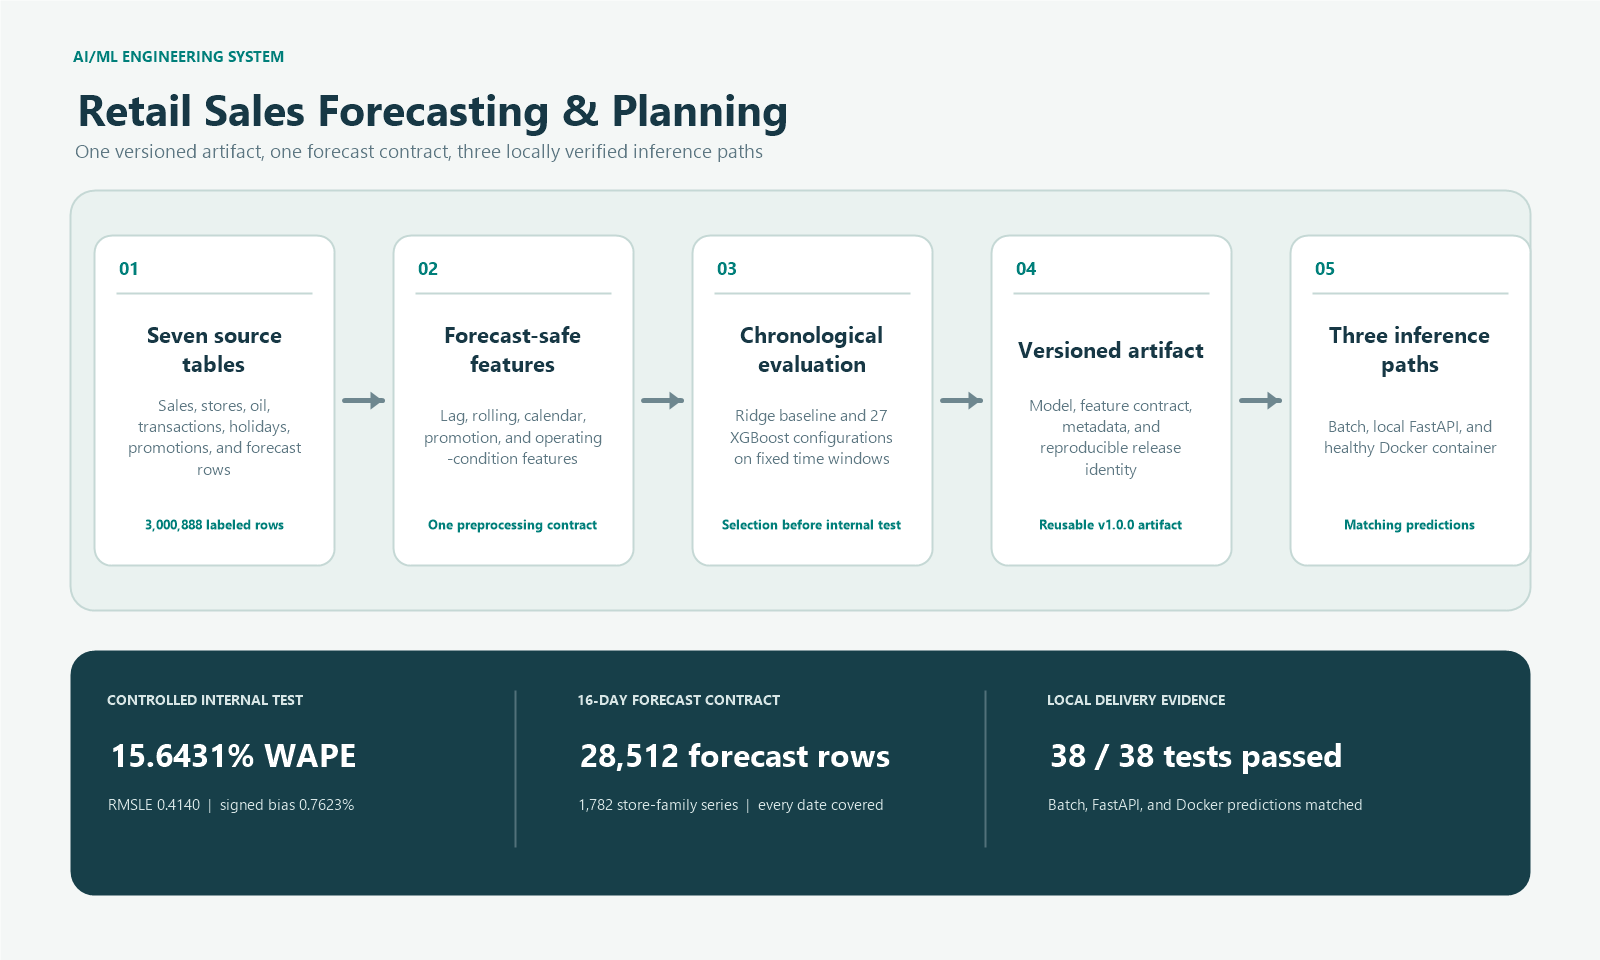
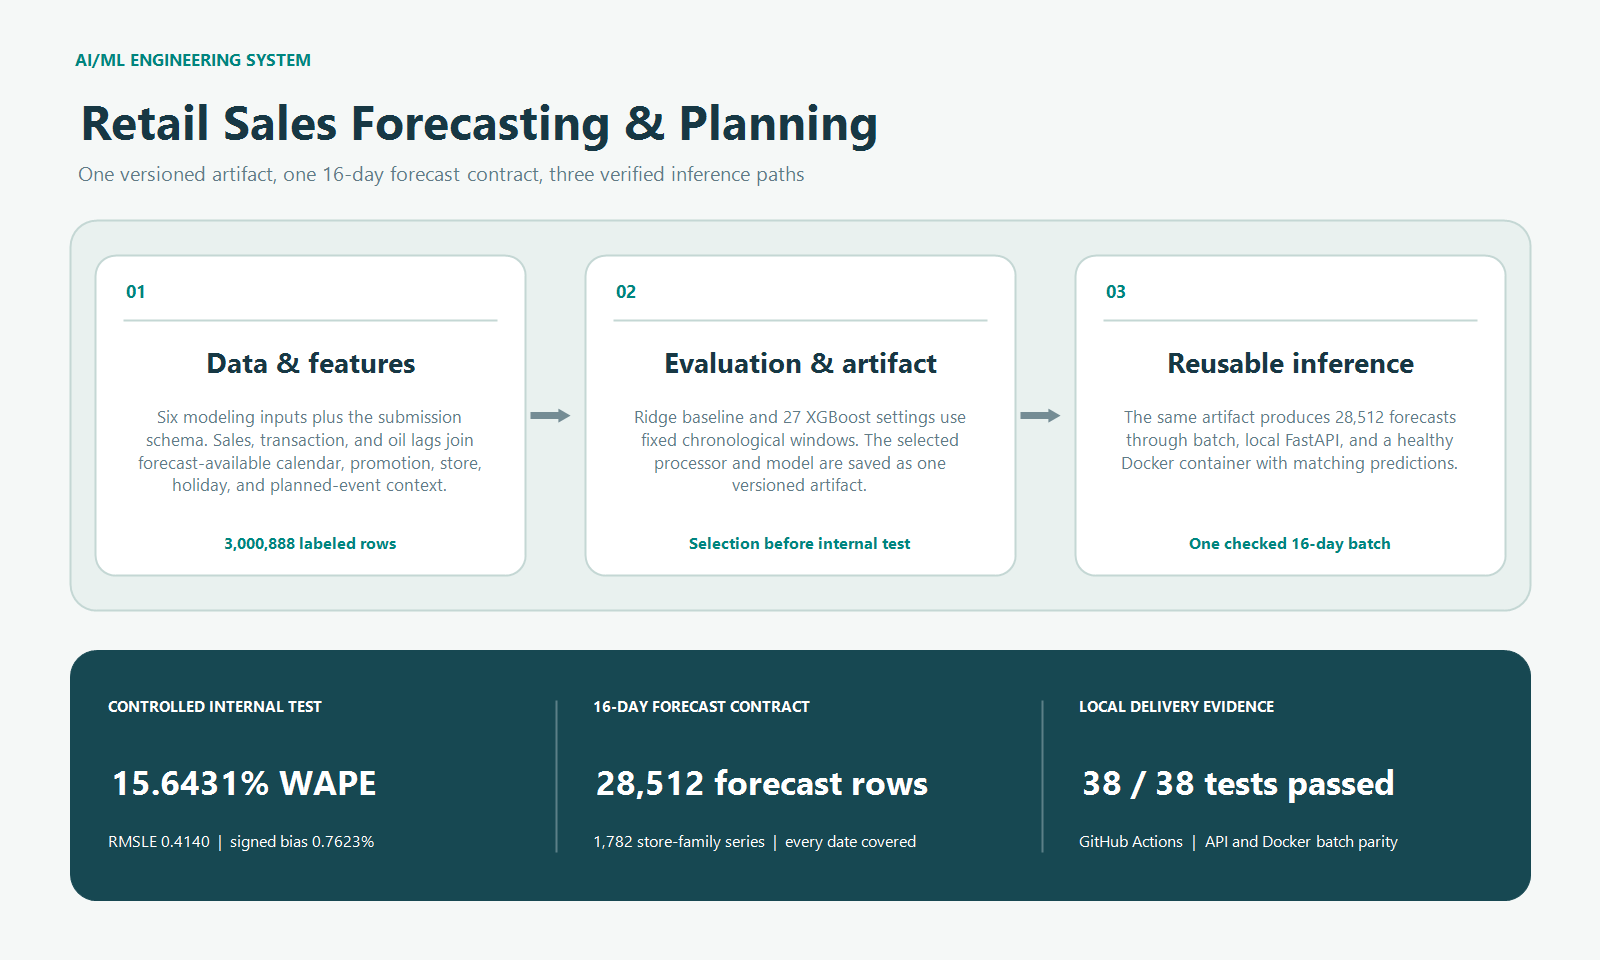
Audit retail project presentation

diff --git a/index.html b/index.html
@@ -225,7 +225,7 @@
                 <h3>Retail Sales Forecasting &amp; Planning System</h3>
                 <dl class="case-details">
                   <div><dt>Problem</dt><dd>Retail planning requires a consistent 16-day view of category demand across 54 stores and 33 product families, while promotions, holidays, transactions, and local operating conditions vary across 1,782 store-family series.</dd></div>
-                  <div><dt>My Contribution</dt><dd>Built the end-to-end system from seven-source preprocessing and forecast-safe feature engineering through chronological Ridge/XGBoost evaluation, a versioned model artifact, reusable batch inference, and locally verified FastAPI and Docker delivery.</dd></div>
+                  <div><dt>My Contribution</dt><dd>Built the end-to-end system from multi-source preprocessing and forecast-available feature engineering through chronological Ridge/XGBoost evaluation, a versioned model artifact, reusable batch inference, and locally verified FastAPI and Docker delivery.</dd></div>
                 </dl>
                 <details class="project-deep-dive">
                   <summary>Technical details</summary>
@@ -238,8 +238,8 @@
               </div>
               <div class="project-result-column">
                 <figure class="project-visual">
-                  <a class="project-image-link" href="assets/projects/retail-sales-forecasting.png?v=20260816a" target="_blank" rel="noopener noreferrer" aria-label="Open the retail forecasting system visual at full size">
-                    <img src="assets/projects/retail-sales-forecasting.png?v=20260816a" alt="Retail forecasting flow from seven source tables through feature engineering, chronological model evaluation, a versioned artifact, and matching batch, FastAPI, and Docker inference" width="1600" height="960" loading="lazy" decoding="async">
+                  <a class="project-image-link" href="assets/projects/retail-sales-forecasting.png?v=20260816b" target="_blank" rel="noopener noreferrer" aria-label="Open the retail forecasting system visual at full size">
+                    <img src="assets/projects/retail-sales-forecasting.png?v=20260816b" alt="Retail forecasting flow from six modeling inputs and the submission schema through forecast-available features, chronological evaluation, a versioned artifact, and matching batch, FastAPI, and Docker inference" width="1600" height="960" loading="lazy" decoding="async">
                   </a>
                   <figcaption>One versioned XGBoost artifact drives the same 16-day contract across batch, FastAPI, and Docker inference.</figcaption>
                 </figure>

diff --git a/PROJECT.md b/PROJECT.md
@@ -211,7 +211,7 @@ Copy this block for each audited project. Do not remove required fields.
 - **Limitations:** The competition data covers 2013-2017 and supports product-family rather than SKU forecasting. The source does not provide inventory, supplier, cost, margin, or capacity inputs. Model evidence comes from one fixed validation window and one protected internal-test window. Runtime verification is local and containerized; no external deployment or live business impact has been demonstrated.
 - **Approved Project Output wording:** The system produces a checked 16-day forecast for every store-family series, giving planning teams one consistent demand view through the same reusable artifact across batch, API, and containerized inference.
 - **Approved Evidence & Scope wording:** Results come from one fixed validation window and one protected internal-test window on 2013–2017 competition data. The locally verified, containerized API produces product-family sales forecasts rather than inventory decisions.
-- **Portfolio status:** Published
+- **Portfolio status:** Published. The evidence-aligned wording and corrected system visual are current on the live website.
 
 ### ai-invoice-approval-automation
 
@@ -343,7 +343,39 @@ Keep the following evidence levels distinct:
 11. Verify that the proposed or live project card matches the canonical registry record.
 12. Update this file in the same revision whenever an approved portfolio policy, project evidence, role-family mapping, limitation, repository link, metric, or portfolio status changes.
 
-## 6. Project-to-portfolio handoff
+## 6. Full website audit standard
+
+When the user asks for a `full audit`, the Portfolio Website task must inspect
+the complete requested scope in one pass rather than stopping after the first
+card, file, or visible issue.
+
+The audit must cover:
+
+- all tracked HTML, CSS, JavaScript, configuration, metadata, and dependencies;
+- all visible copy, project cards, links, images, diagrams, and downloadable or
+  generated public assets;
+- the rendered desktop and mobile experience, including layout, hierarchy,
+  readability, contrast, responsive behavior, image cropping, navigation, and
+  interactive states;
+- browser console or runtime errors, broken links and assets, accessibility-
+  relevant structure, performance risks visible from the current
+  implementation, and repository hygiene; and
+- every public capability, technology, metric, result, role-family mapping, and
+  project status against the canonical Project Registry and the corresponding
+  source project's current evidence.
+
+Report all material findings in the first audit response. Group them as
+critical, material, and optional polish, and give the evidence, practical
+impact, and recommended action for each. Name the audited areas where no
+material issue was found so the coverage is explicit. If response limits
+require several messages, declare every remaining audit area up front and do
+not call the audit complete until all declared areas have been covered.
+
+A full-audit request is read-only. Do not change files, regenerate assets,
+publish, deploy, or change external state unless the user separately authorizes
+those actions after reviewing the findings.
+
+## 7. Project-to-portfolio handoff
 
 A project task does not publish or revise its own portfolio card. When a project is ready for portfolio review:
 
